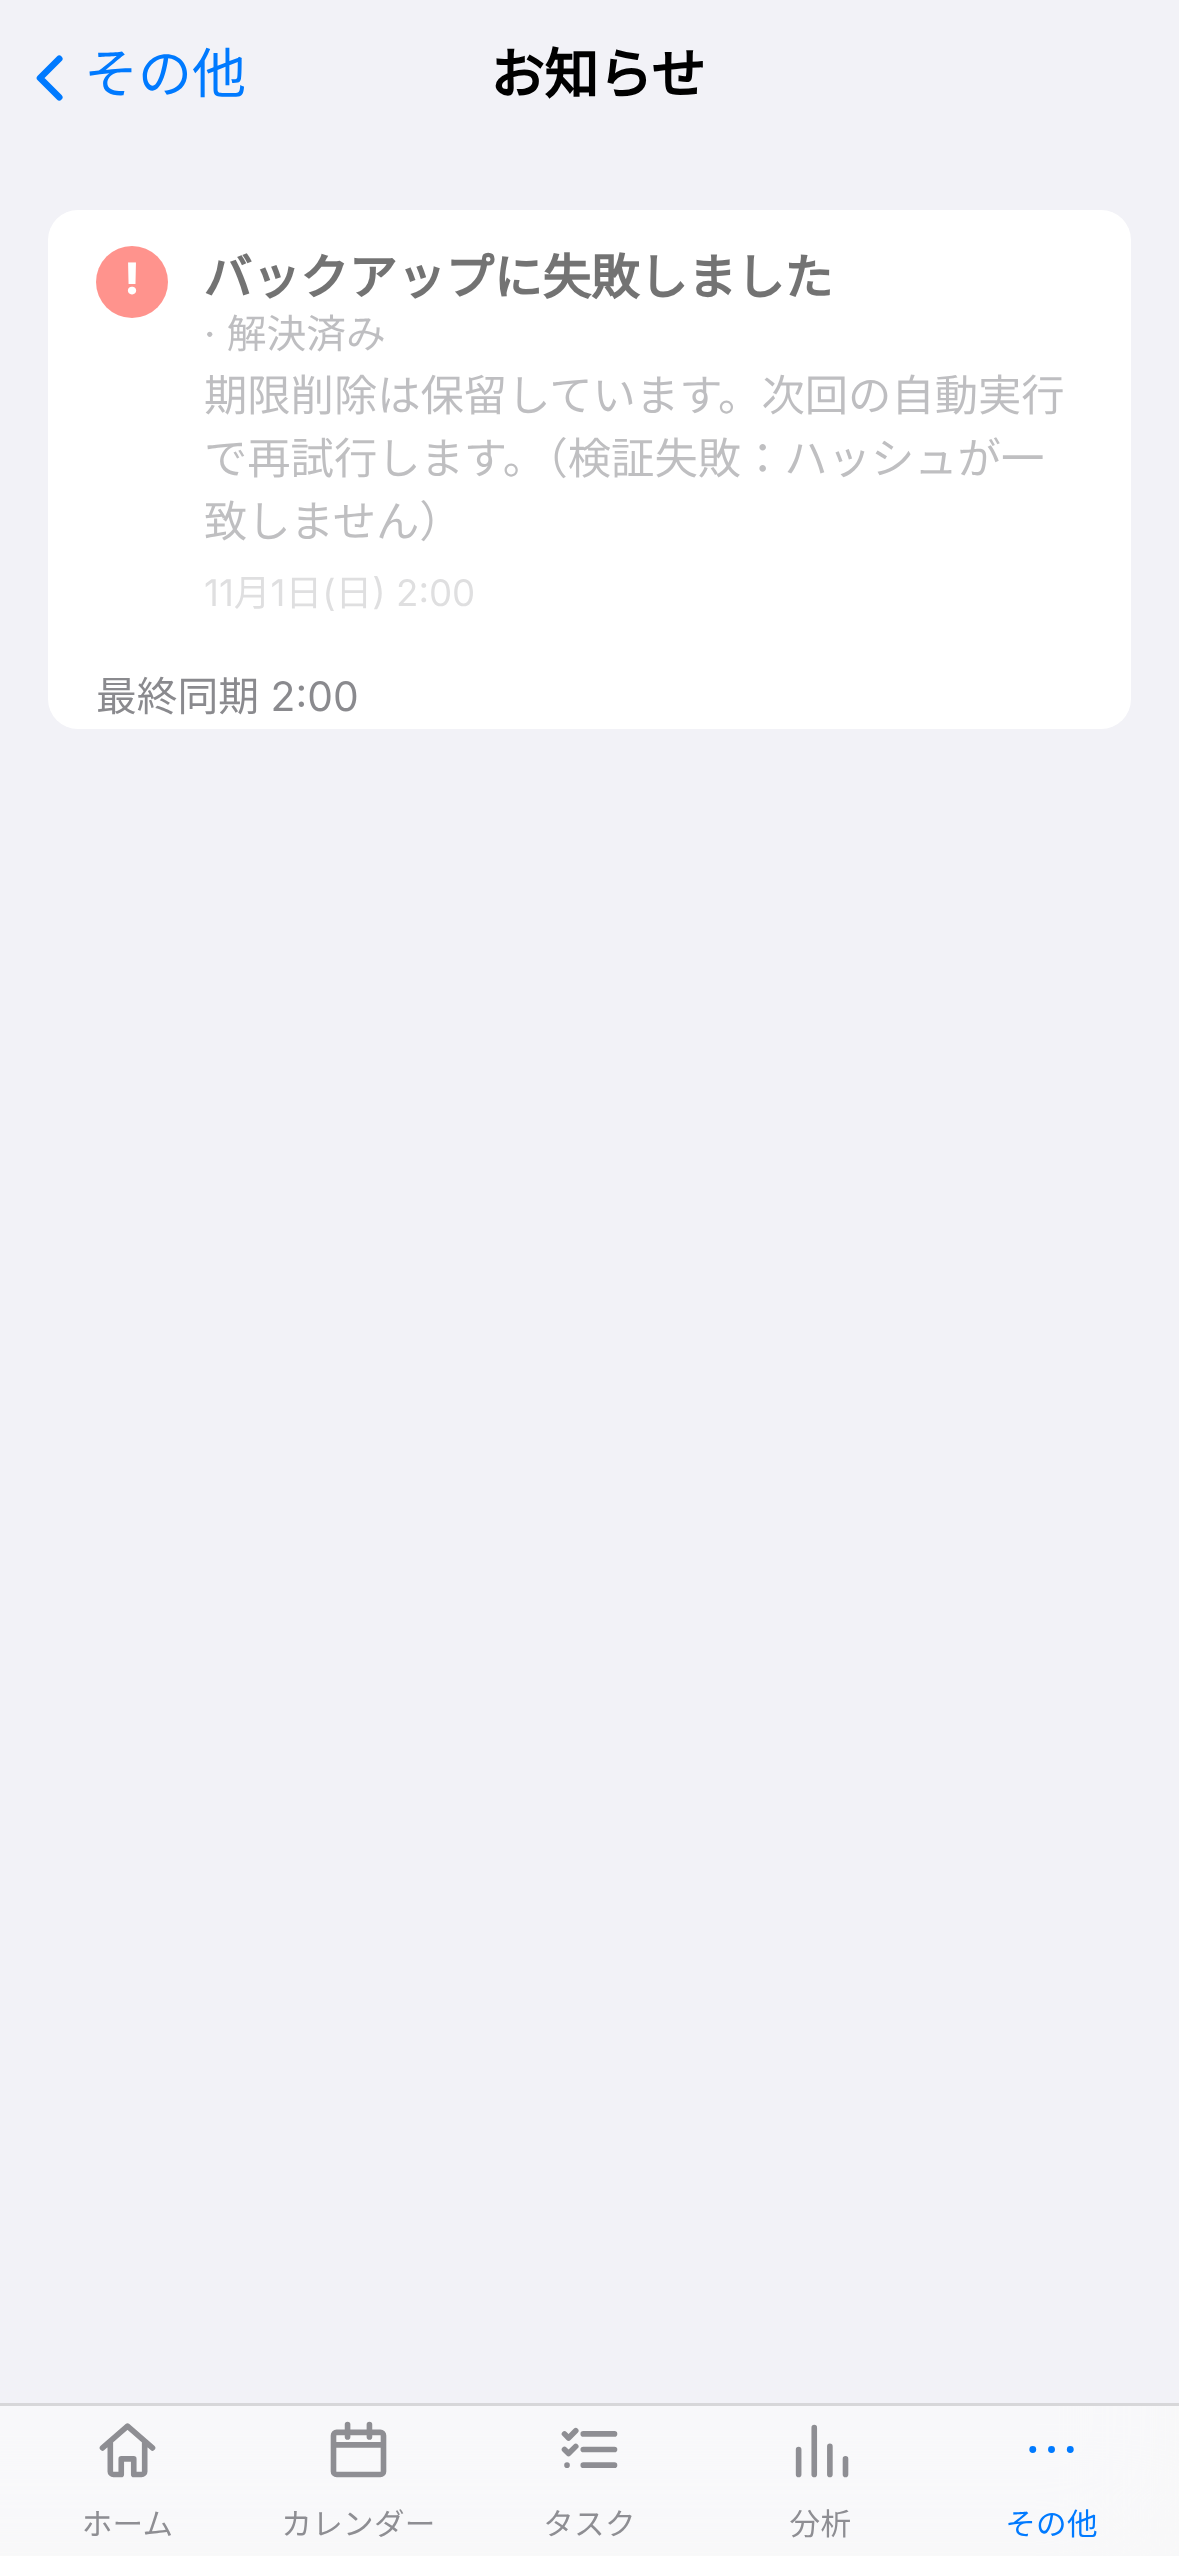
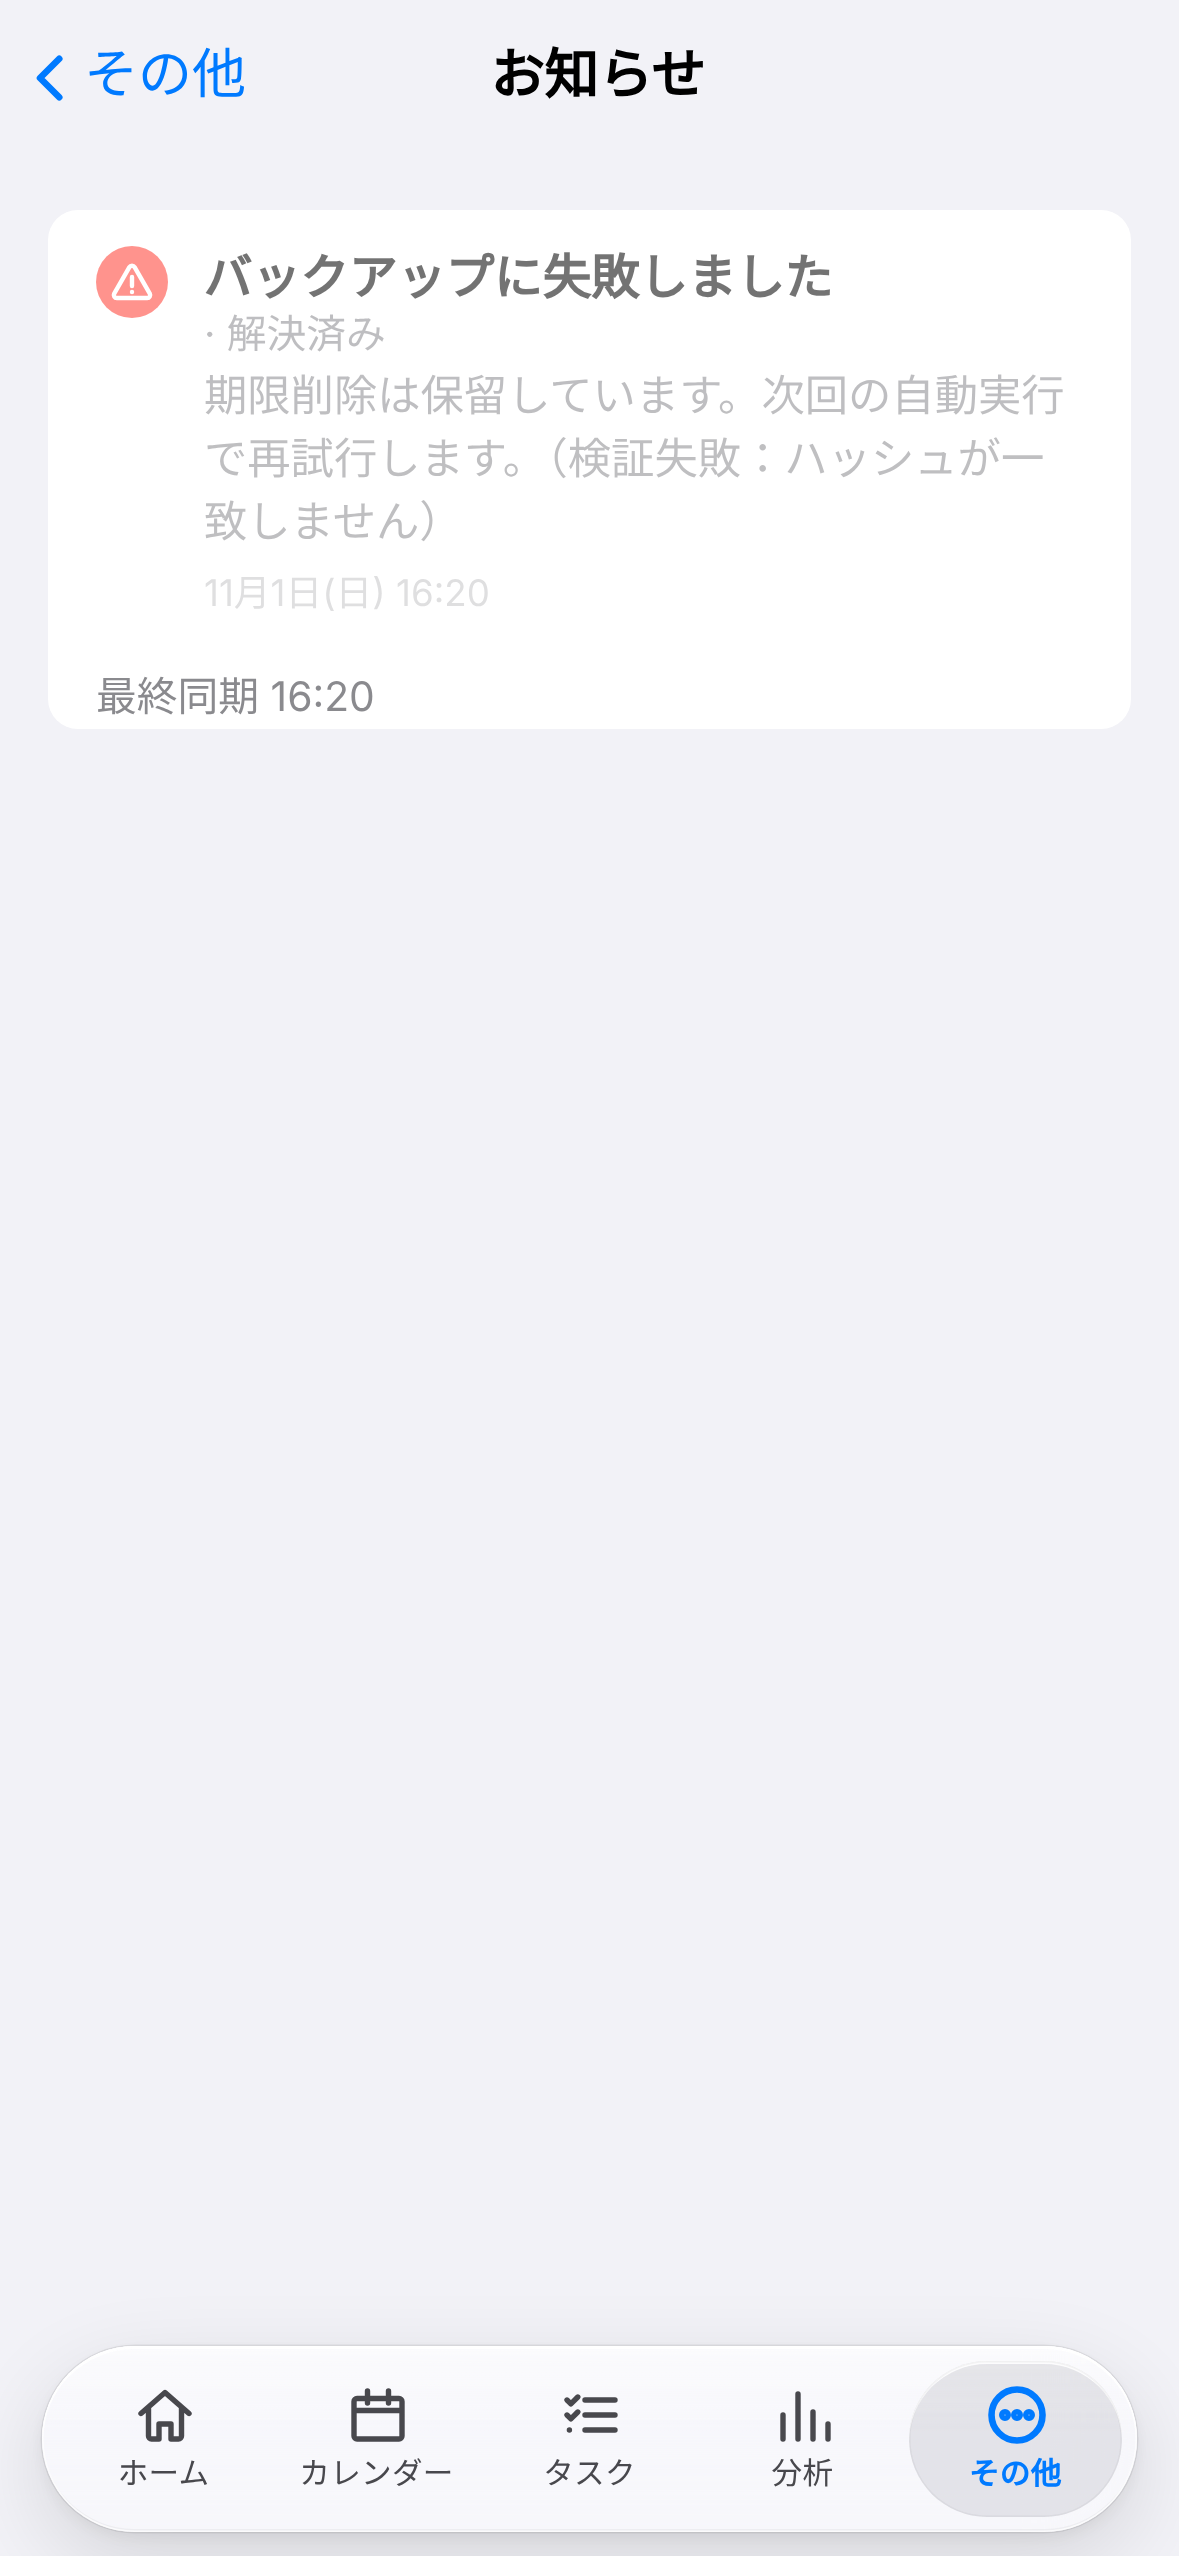
Phase 3: 中間報告と画面キャプチャ（Chromium・WebKit、明暗・小型・横向き・特大文字、アイコン一覧）
Claude-Session: https://claude.ai/code/session_01QcLHSGtVW3U8EMN2URVGqm

diff --git a/docs/phase3-report.md b/docs/phase3-report.md
@@ -1,0 +1,145 @@
+# My Time — Phase 3 中間報告（2026-11-01）
+
+**状態：実装と自動テストは合格。iPhone 実機の確認と、Phase 2 から続く受け入れ検証が残っているため、Phase 3 は「完成」とはしていない。**
+Phase 2 の実装と本番接続は完了している。Phase 2 の受け入れ検証のうち、まだ残っているものは継続中。
+
+## 1. Phase 2 レビュー指摘への対応
+
+| 指摘 | 対応 | 証拠 | 残件 |
+|---|---|---|---|
+| ① 復元比較と実 DB 復旧を区別 | 実 Drive の日次ファイルを隔離した空の D1（miniflare のローカル DB）へ `recoverSnapshot` で書き戻し、照合する手順 `pnpm --filter @my-time/api test:realdrive` を追加した。<br>照合する項目：現役の記録、削除の印、設定、操作ログ、メタデータ5表、索引、同期世代、認証情報を戻さないこと。さらに、同じ google_sub での再ログインと、古いカーソル・古い世代からの再同期も確かめる。 | 合成ファイルで手順そのものが動くことを確認済み（3件合格） | **実 Drive の実ファイルでの実行はまだ**（ユーザーからのファイル提供を待っている）。下の表のとおり、読み戻し・照合・空 DB への復旧・再同期は分けて報告する。 |
+| ② 実 Drive のアーカイブ復元 | 本番の削除は `off` のままにしている。 | — | **未実施**。本番を off に保ったまま実 Drive にアーカイブを作るには、本番以外で実 Google 認証を使える隔離環境が必要になる。ところが新しい Worker や OAuth クライアントは作れない（変更禁止・権限拡大にあたる）。進め方をユーザーと相談中。 |
+| ③ 完了の書き方 | 本書と PR では「Phase 2の実装・本番接続は完了。残存する受け入れ検証は継続中」と書いている。 | 本書 | — |
+
+| 実復旧の段階 | 結果 |
+|---|---|
+| 本番での読み戻し（restoreDrill） | Phase 2 で実施済み：5件一致・差分 0（比較のみ） |
+| 実ファイルの照合 | 未実施（ファイル待ち） |
+| 空 DB への実復旧 | 合成ファイルで手順を確認済み。実ファイルでは未実施 |
+| 再認証・再同期 | 合成ファイルで手順を確認済み。実ファイルでは未実施 |
+
+## 2. Phase 3 の変更（既存の機能・タブ順・保存形式は維持）
+
+- **アイコンの全面刷新**
+  - アプリが表示するアイコンを、すべて `Icon.tsx` の独自 SVG（24 グリッド・丸端）に統一した。
+  - 絵文字や記号の文字でアイコンを表していた箇所はなくした（タスク、確認タスク、時間軸、浮遊カード、検索、月表示、カレンダー、取り込み、オンボーディング、お知らせ、タブの注意印、フラグ、優先度）。
+  - アイコンの選択画面も新しい SVG だけを並べ、日本語の名前を付けた。
+  - タイトル・メモに入力された絵文字は変えていない。
+- **Liquid Glass 風のタブバー**
+  - 画面下に浮かぶ丸い帯で、半透明の素材とぼかし（`-webkit-` 付きの指定も併記）、縁の光、内側のハイライト、影を付けた。
+  - 選択中のタブは、移動するカプセル・太い線・太いラベル・`aria-current` で示す。
+  - 押したときに小さく沈む反応を付けた。
+  - ぼかしが使えない環境、透明度を下げる設定、コントラストを上げる設定では不透明な帯に切り替わる。動きを減らす設定ではカプセルを動かさない。
+  - 横向きではラベルをアイコンの横に並べ、帯を低くする。幅の狭い画面では余白を詰める。
+  - 下の余白はトークン `--tabbar-space` の1か所で確保した。
+  - これは Web での近似であり、ネイティブの光学効果を再現したものではない。
+- **ドラッグ中の端の自動スクロール**
+  - 時間軸で予定を運んでいる間、指を上端・下端に近づけると自動で流れる。タブバーの裏側は端に含めない。
+  - 静止した長押しでは流さない。
+- **性能**
+  - タブを切り替えても、隠れている画面は描き直さない（UI の文脈を分け、各画面を memo 化）。
+  - タスク一覧は見えている付近だけを描く。
+  - 時間軸には表示範囲のタスクだけを渡す（`tasksForRange`）。
+- **アクセシビリティ・文言**
+  - 操作できる要素すべてに名前があることを検査で確認した。
+  - 文字を拡大したときに行の見出しが1文字ずつ縦に並ぶ問題を直した。
+  - 「その他 › カレンダー」のような記号の案内を、文章に置き換えた。
+  - 「使える範囲と制限」（オフライン、通知、バックアップ、30日後の期限削除の**現在の状態**）を追加した。期限削除が停止中なのに削除されると読める文言も直した。
+
+## 3. 旧アイコン → 新アイコンの対応と互換方針
+
+- 保存形式は変えていない（`icon` は文字列のまま。schema の変更も migration もない）。
+- 新しく選んだものは安定した ID で保存する。
+- 旧レコード・旧バックアップ・旧移行ファイルの絵文字は、表示するときだけ `resolveItemIcon()` で読み替える。**保存値は書き換えない**ので、一括更新も同期の大量発生も起きない。
+- 未知の値は「その他」（`circle`）で表示し、元の値は残す。
+- 編集画面で変更せずに保存すると、元の値のまま残る。別のアイコンを選んだ記録だけが新しい ID になる（E2E で確認済み）。
+- 既知の制約：旧版のアプリ（キャッシュが更新される前の端末）が新しい ID を受け取ると、アイコンの位置に「book」などの文字が表示される。アプリが更新されれば解消する。
+
+| 新しい ID | 名前 | 読み替える旧絵文字 |
+|---|---|---|
+| `book` | 本 | 📘 📗 📙 📕 📖 |
+| `pencil` | 鉛筆 | ✏ ✍ 🖊 |
+| `laptop` | パソコン | 💻 🖥 |
+| `note` | メモ | 📝 📄 |
+| `books` | 参考書 | 📚 |
+| `flask` | 実験 | 🧪 🔬 |
+| `target` | 目標 | 🎯 |
+| `briefcase` | 仕事 | 💼 |
+| `run` | 運動 | 🏃 🏋 ⚽ |
+| `sparkles` | 掃除 | 🧹 ✨ |
+| `cart` | 買い物 | 🛒 |
+| `pan` | 料理 | 🍳 |
+| `headphones` | 音楽を聴く | 🎧 |
+| `chat` | 会話 | 💬 |
+| `bulb` | アイデア | 💡 |
+| `star` | 大切 | ⭐ 🌟 |
+| `calendar` | 予定 | 📅 📆 🗓 |
+| `graduation` | 学校 | 🎓 🏫 |
+| `house` | 家 | 🏠 🏡 |
+| `heart` | 好きなこと | ❤ 💖 |
+| `music` | 音楽 | 🎵 🎶 |
+| `plane` | 旅行 | ✈ |
+| `dining` | 食事 | 🍽 🍴 |
+| `person` | 人 | 👤 |
+| `circle` | その他 | — |
+
+一覧画像：`docs/screenshots/phase3/icon-set.png`
+
+## 4. 画像
+
+`docs/screenshots/phase3/` に保存した。Chromium（iPhone 15 Pro の画面設定）と WebKit の両方で撮影している。
+
+- 全5タブ（ライト・ダーク）
+- タブバーの拡大（密な月表示の上）
+- アイコン選択
+- 320×568 の画面
+- 横向き
+- 特大の文字
+
+データはテスト用に投入した架空のもので、旧形式の絵文字を含む。
+
+## 5. テスト（実測・このコンテナ）
+
+| コマンド | 結果 |
+|---|---|
+| `pnpm typecheck` / `pnpm lint` / `pnpm build` | 成功 |
+| `pnpm test` | Web・domain 101件、API 41件、すべて成功（基準は 90＋41） |
+| `pnpm e2e --grep-invert 画面キャプチャ` | 120件成功・4件スキップ・失敗 0（Chromium＋WebKit、基準は 102/4） |
+| `pnpm e2e:stack` | 6件成功 |
+| `test:realdrive`（合成ファイル） | 3件成功（実ファイルでは未実施） |
+
+性能の測定条件：Playwright の Chromium、iPhone 15 Pro の画面設定、CPU を 4 倍に低速化。実機の値ではない。
+
+| データ量 | 起動 | タスクタブ | 分析タブ | カレンダータブ | スクロール p95 |
+|---|---|---|---|---|---|
+| 予定3000・タスク2000（改善前） | 3.2秒 | 8.7秒 | 3.2秒 | 2.1秒 | 21ms |
+| 同（改善後） | 3.3秒 | 1.9秒 | 0.8秒 | 2.8秒※ | 22ms |
+
+※ 1日あたり予定12件・タスク10件という密な表示の、描画（レイアウト）が中心。値には測定ごとの揺れがある。
+
+## 6. 本番の確認範囲
+
+本番の設定は変えていない：`googleConfigured=true`、`retentionMode=off`。
+
+Phase 3 のコードは**まだ本番に反映していない**。
+
+未検証のもの：
+
+- 2つのアカウントでの確認
+- 本番での二重取り込み防止
+- Cron の実行結果（22:20 に確認する予定）
+- Push の実機受信
+- 実アーカイブの復元
+- iPhone 15 Pro の実機確認（Safari とホーム画面に追加した PWA の両方）
+
+## 7. PR・公開
+
+PR は下記。main へのマージと Cloudflare への公開はまだしていない（ユーザーの確認後に、`RETENTION_MODE=off` を固定した既存のワークフローで行う）。
+
+## 8. 必要なユーザー操作
+
+1. 実 Drive の最新の日次ファイルを添付する（実復旧の照合に使う）。
+2. 2つ目の Google アカウントの有無を知らせ、テストユーザーへの追加を承認する。
+3. iPhone 実機で確認する（手順は別に示す）。
+4. 本番の【検証】タスク3件を残すか消すかを決める。
+5. マージと本番公開を承認する。
